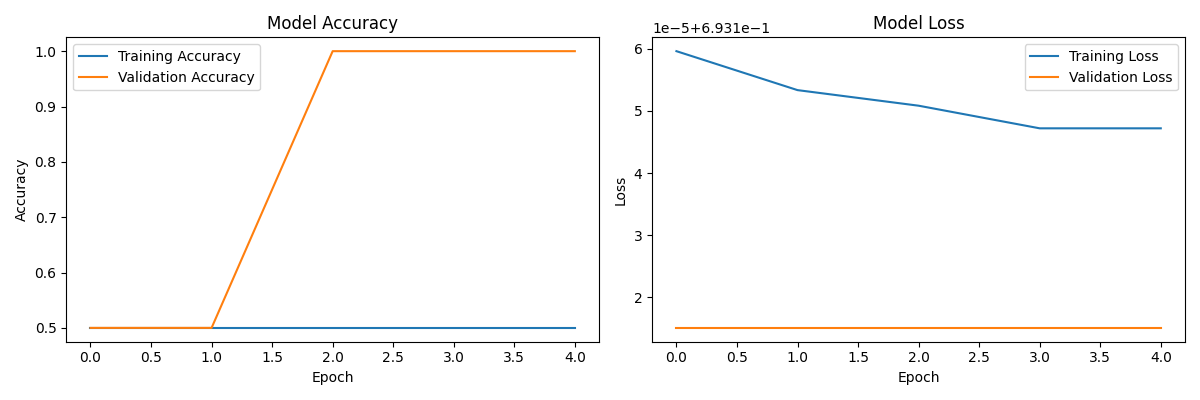
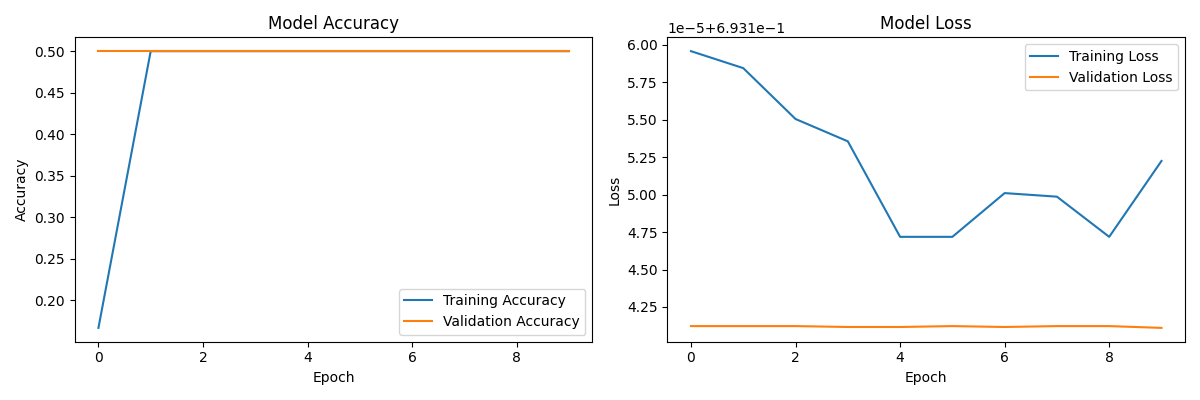
Updated training model parameters to improve accuracy

diff --git a/src/train_model.py b/src/train_model.py
@@ -35,28 +35,30 @@ print("Test labels:", y_test)
 
 # Data augmentation
 datagen = ImageDataGenerator(
-    rotation_range=20,
-    width_shift_range=0.2,
-    height_shift_range=0.2,
-    zoom_range=0.2,
-    brightness_range=[0.8, 1.2],
+    rotation_range=30,
+    width_shift_range=0.3,
+    height_shift_range=0.3,
+    zoom_range=0.3,
+    brightness_range=[0.6, 1.4],
+    shear_range=0.2,
+    channel_shift_range=20,
     fill_mode='nearest'
 )
 
 # Build a simpler CNN model
 print("Building model...")
 model = Sequential([
-    Conv2D(16, (3, 3), activation='relu', padding='same', input_shape=(128, 128, 3)),
-    MaxPooling2D((2, 2)),  # Output: (64, 64, 16)
+    Conv2D(8, (3, 3), activation='relu', padding='same', input_shape=(128, 128, 3)),
+    MaxPooling2D((2, 2)),  # Output: (64, 64, 8)
+    
+    Conv2D(16, (3, 3), activation='relu', padding='same'),
+    MaxPooling2D((2, 2)),  # Output: (32, 32, 16)
     
     Conv2D(32, (3, 3), activation='relu', padding='same'),
-    MaxPooling2D((2, 2)),  # Output: (32, 32, 32)
+    MaxPooling2D((2, 2)),  # Output: (16, 16, 32)
     
-    Conv2D(64, (3, 3), activation='relu', padding='same'),
-    MaxPooling2D((2, 2)),  # Output: (16, 16, 64)
-    
-    Flatten(),  # Output: (16 * 16 * 64 = 16384)
-    Dense(64, activation='relu'),
+    Flatten(),  # Output: (16 * 16 * 32 = 8192)
+    Dense(32, activation='relu'),
     Dropout(0.3),
     Dense(1, activation='sigmoid')
 ])
@@ -64,7 +66,7 @@ model = Sequential([
 # Compile the model
 print("Compiling model...")
 model.compile(
-    optimizer=Adam(learning_rate=0.0001),  # Lower learning rate
+    optimizer=Adam(learning_rate=0.0001),
     loss='binary_crossentropy',
     metrics=['accuracy']
 )
@@ -77,7 +79,7 @@ print("Training model...")
 history = model.fit(
     datagen.flow(X_train, y_train, batch_size=2),
     validation_data=(X_test, y_test),
-    epochs=5,  # Fewer epochs
+    epochs=10,  # Increased to 10
     steps_per_epoch=len(X_train) // 2,  # 6 images / 2 = 3 steps
     verbose=1
 )
@@ -110,3 +112,9 @@ plt.show()
 test_loss, test_accuracy = model.evaluate(X_test, y_test, verbose=0)
 print(f"Test Loss: {test_loss:.4f}")
 print(f"Test Accuracy: {test_accuracy:.4f}")
+
+# Check predictions on test set
+predictions = model.predict(X_test)
+print("Test predictions (probabilities):", predictions)
+print("Test predictions (classes):", (predictions > 0.5).astype(int))
+print("True test labels:", y_test)
